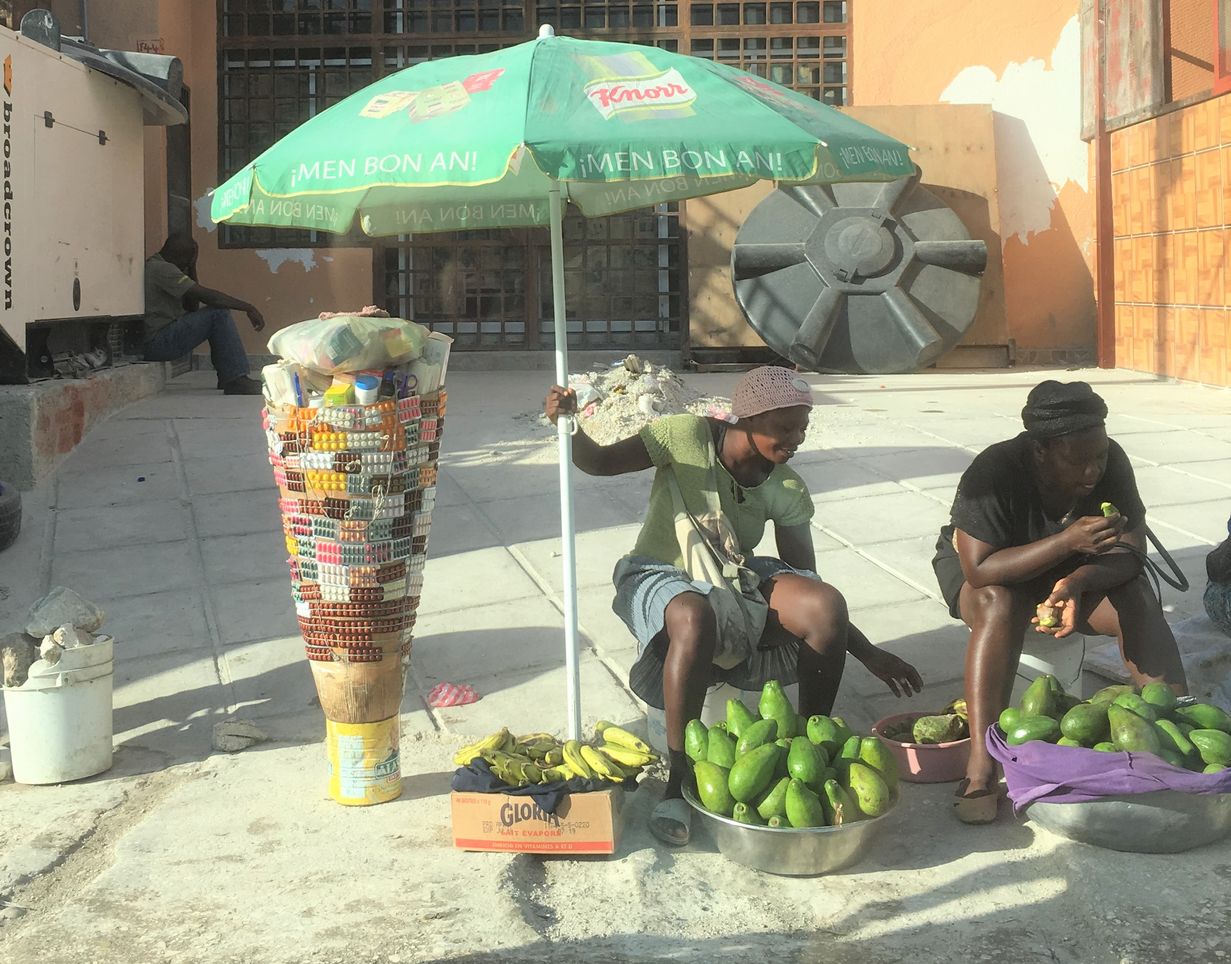
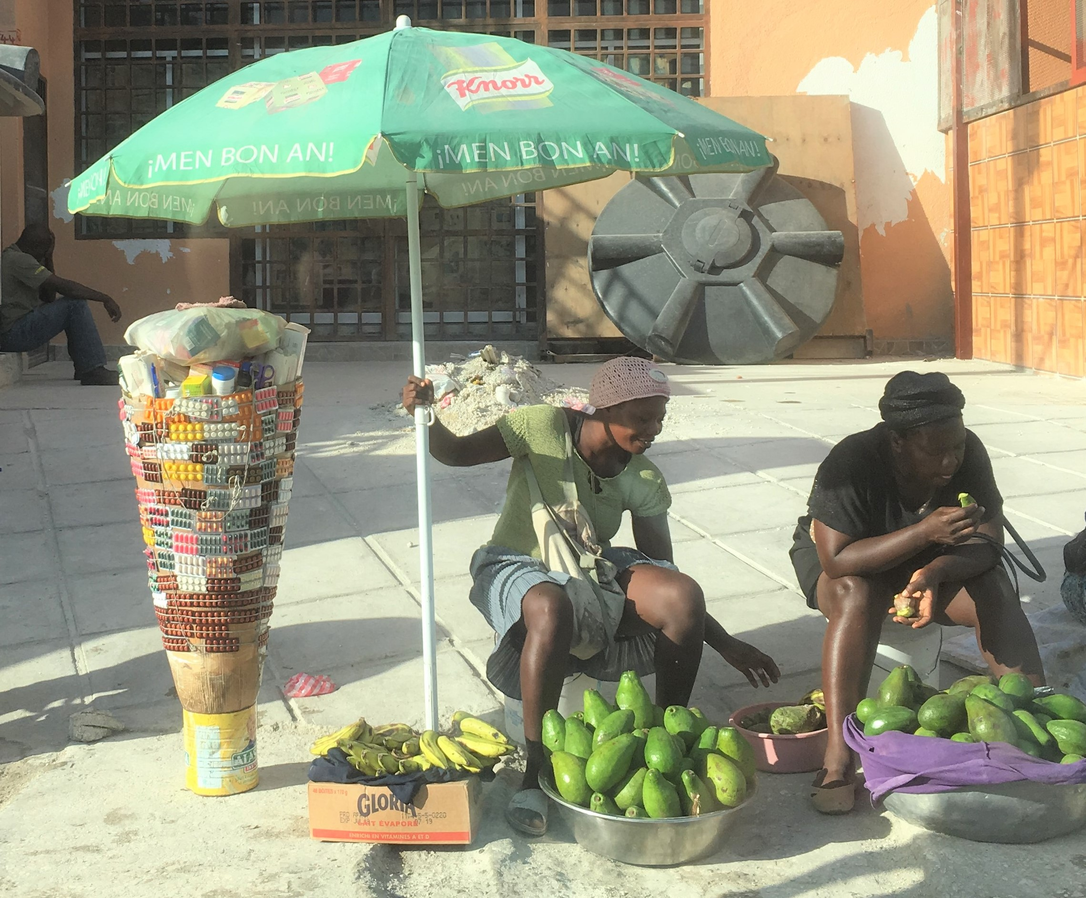
new image

diff --git a/content/publication/conference-paper/index.md b/content/publication/conference-paper/index.md
@@ -48,7 +48,7 @@ url_video: ''
 # To use, add an image named `featured.jpg/png` to your page's folder. 
 image:
   caption: '*Padapaps* can be found in every street corner'
-  focal_point: ""
+  focal_point: "Center"
   preview_only: false
 
 # Associated Projects (optional).
